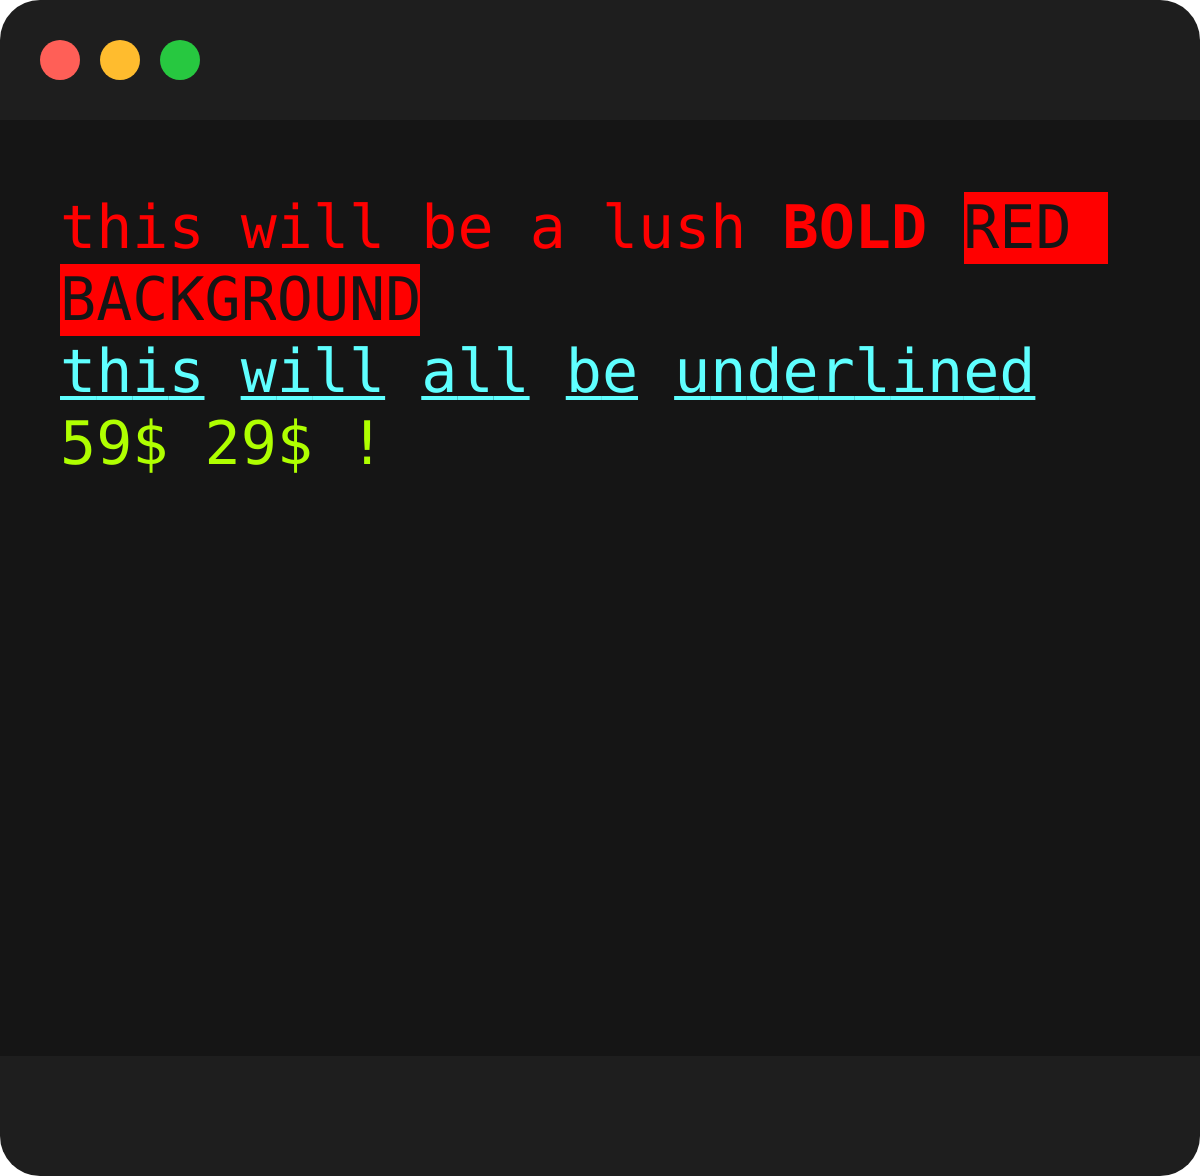
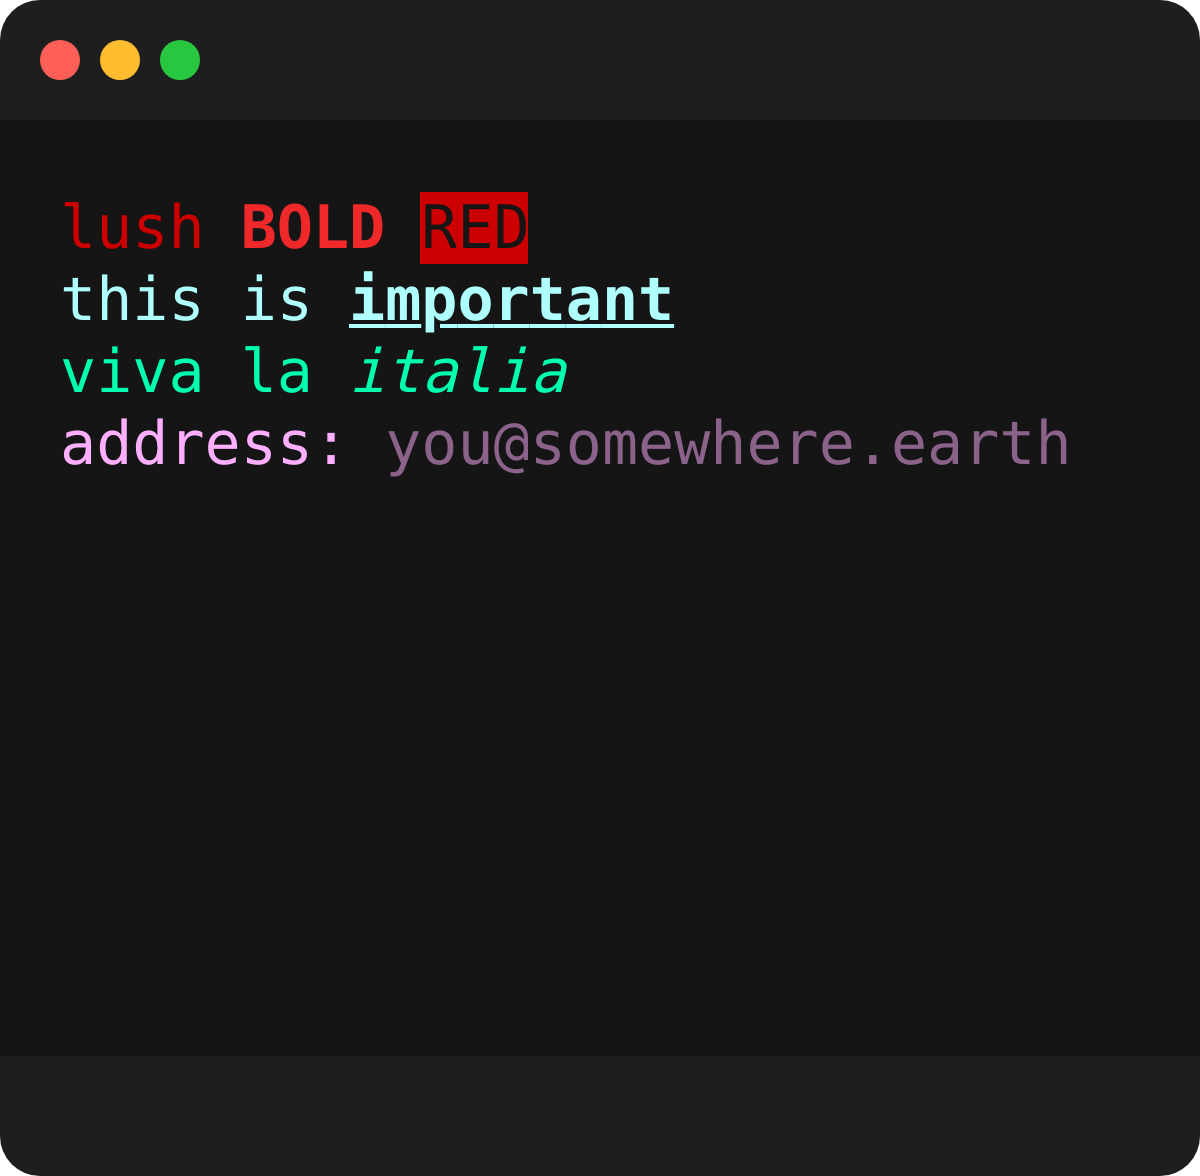
docs: finalized examples and shellfies

Changed region(s): [[0.0308, 0.1531, 0.8942, 0.398], [0.8017, 0.1531, 0.925, 0.2449], [0.6475, 0.1531, 0.7708, 0.2143]]

diff --git a/index.js b/index.js
@@ -108,8 +108,9 @@ function rgbToAnsi(r, g, b, txt) {
 
 function getValue(txt, ...args) {
   let value = txt;
-  if (args.length > 0) {
-    value = txt.map((t, i) => t + (args[i] || '')).join('');
+  const sanitizedArgs = args.filter(a => a && a !== undefined);
+  if (sanitizedArgs.length > 0) {
+    value = txt.map((t, i) => t + (sanitizedArgs[i] || '')).join('');
   } else if (Array.isArray(txt)) {
     value = txt[0];
   }
@@ -179,7 +180,7 @@ function style(config = {}) {
   const colorz = Object.assign({}, colorMap, colors);
   const symbolz = Object.assign({}, decoratorMap, decorators);
   const colorCodes = makeColors(colorz);
-  const themedColors = theme ? colorCodes[theme] : colorCodes;
+  const themedColors = theme ? Object.assign(colorCodes, colorCodes[theme]) : colorCodes;
   if (!themedColors) throw new Error(`no such theme ${theme}`);
   const functions = makeFunctions(themedColors, symbolz);
   return {

diff --git a/index.test.js b/index.test.js
@@ -1,4 +1,5 @@
 const { describe, it } = require('mocha');
+const {expect} = require('chai')
 const snap = require('snaptdout');
 const style = require('./index');
 
@@ -25,6 +26,15 @@ function createPhrases(styles) {
 
 describe('style', () => {
   describe('built-in themes', () => {
+    it('should throw for non-existing theme', async () => {
+      try {
+        style({theme: 'broccoli'});  
+      } catch (error) {
+       expect(error.message).to.equal('no such theme broccoli')
+      }
+      
+      
+    });
     it('should create default theme', async () => {
       const d = style();
       const data = createPhrases(d);

diff --git a/README.md b/README.md
@@ -24,23 +24,32 @@ cli color manager
 
 ## usage
 ```javascript
-const style = require('styl3');
+const style = require('./');
+const shellfie = require('shellfie');
 const s = style();
-// use as tag functions
-console.log(s.red`this will be red`)
-// access a theme specifically
-console.log(s.pastel.green`this will be a pastel green`)
 
-const ss = style({theme: 'pastel'});
-// now `ss.green` points to the pastel green
-// allowing to change theme for the entire cli with one string
-console.log(ss.green`this will also be a pastel green`)
+(async function () {
+  const data = [];
+  data.push(s.red`this will be a default red`);
+  // access a theme specifically
+  data.push(s.pastel.green`this will be a pastel green`);
 
-// supports custom hex
-console.log(ss.hex('#de5285')`this will be a slick pink`)
-// and rgb
-console.log(ss.rgb(15, 106, 251)`this will be a rich blue`)
+  const ss = style({ theme: 'pastel' });
+  // now `ss.green` points to the pastel green
+  // allowing to change theme for the entire cli with one string
+  data.push(ss.green`also a pastel green`);
+
+  // supports custom hex
+  data.push(ss.hex('#de5285')`this will be a slick pink`);
+  // and rgb
+  data.push(ss.rgb(15, 106, 251)`this will be a rich blue`);
+  await shellfie(data, {
+    viewport: { width: 300, height: 300 },
+    name: 'themes',
+  });
+})();
 ```
+<img src="./shellfies/themes.png" width="300" height="300" />
 
 # decorators
 decorators are characters used to wrap a word and give it decorating features,
@@ -64,11 +73,22 @@ more than one decorator can be applied to a word
 
 ## usage
 ```javascript
-const style = require('styl3');
-const s = style({theme: 'lush'});
+const style = require('./');
+const shellfie = require('shellfie');
+const s = style({theme: 'pastel'});
 
-// use decorators for bold, underline etc...
-console.log(s.red`this will be a lush *BOLD* @RED@`)
-console.log(s.cyan`!this will all be underlined!`)
-console.log(s.green`$59$$ 29$ !`)
+(async function() {
+  const data = [];
+  // use decorators for bold, underline etc...
+  data.push(s.red`lush *BOLD* @RED@`)
+  // double decoratros
+  data.push(s.cyan`this is !*important*!`)
+  data.push(s.green`viva la %italia%`)
+  data.push(s.pink`address: ~you@somewhere.earth~`)
+  await shellfie(data, {
+      viewport: { width: 300, height: 300 },
+      name: 'decoratorz',
+    });
+})()
 ```
+<img src="./shellfies/decorators.png" width="300" height="300" />
